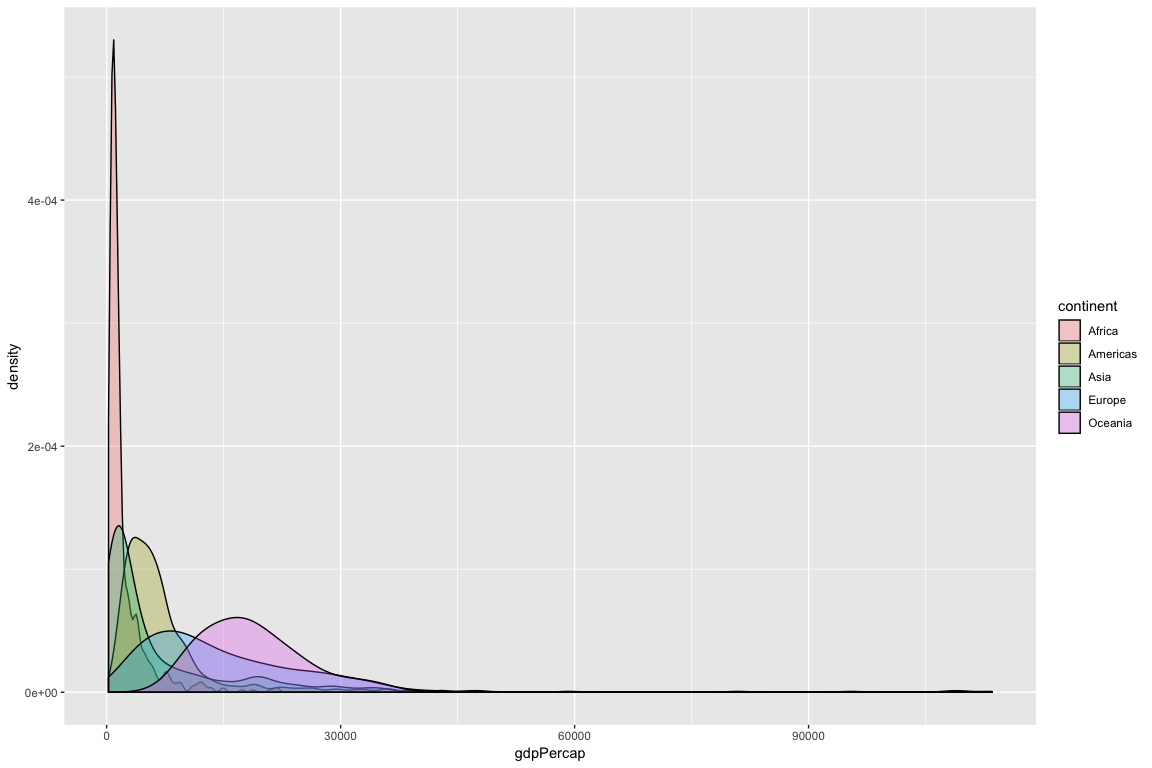
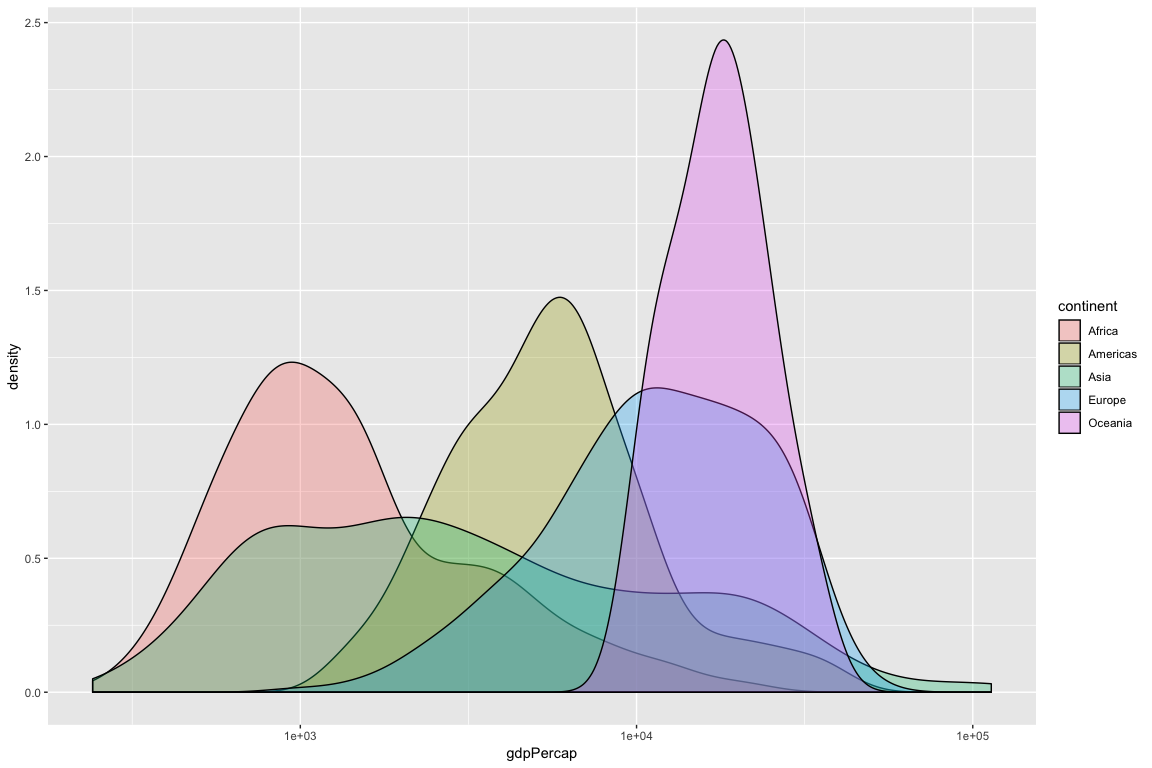
FINAL UPDATE 11.54PM HW002

diff --git a/hw02_gapminder.md b/hw02_gapminder.md
@@ -335,6 +335,7 @@ A plot of one quantitative variable. Maybe a histogram or densityplot or frequen
 ``` r
 # density plot 1 dimension gdp grouped by continent
 ggplot(gpmder, aes(gdpPercap, fill= continent)) +
+  scale_x_log10() +
   geom_density(alpha=0.3)
 ```
 
@@ -349,7 +350,7 @@ ggplot(gpmder, aes(gdpPercap, lifeExp)) +
 
 ![](Figs/denseplot-2.png)
 
-### Hex plot if gdp per capita vs Life expectancy
+### Hex plot of gdp per capita vs Life expectancy
 
 ``` r
 ggplot(gpmder, aes(gdpPercap, lifeExp)) +
